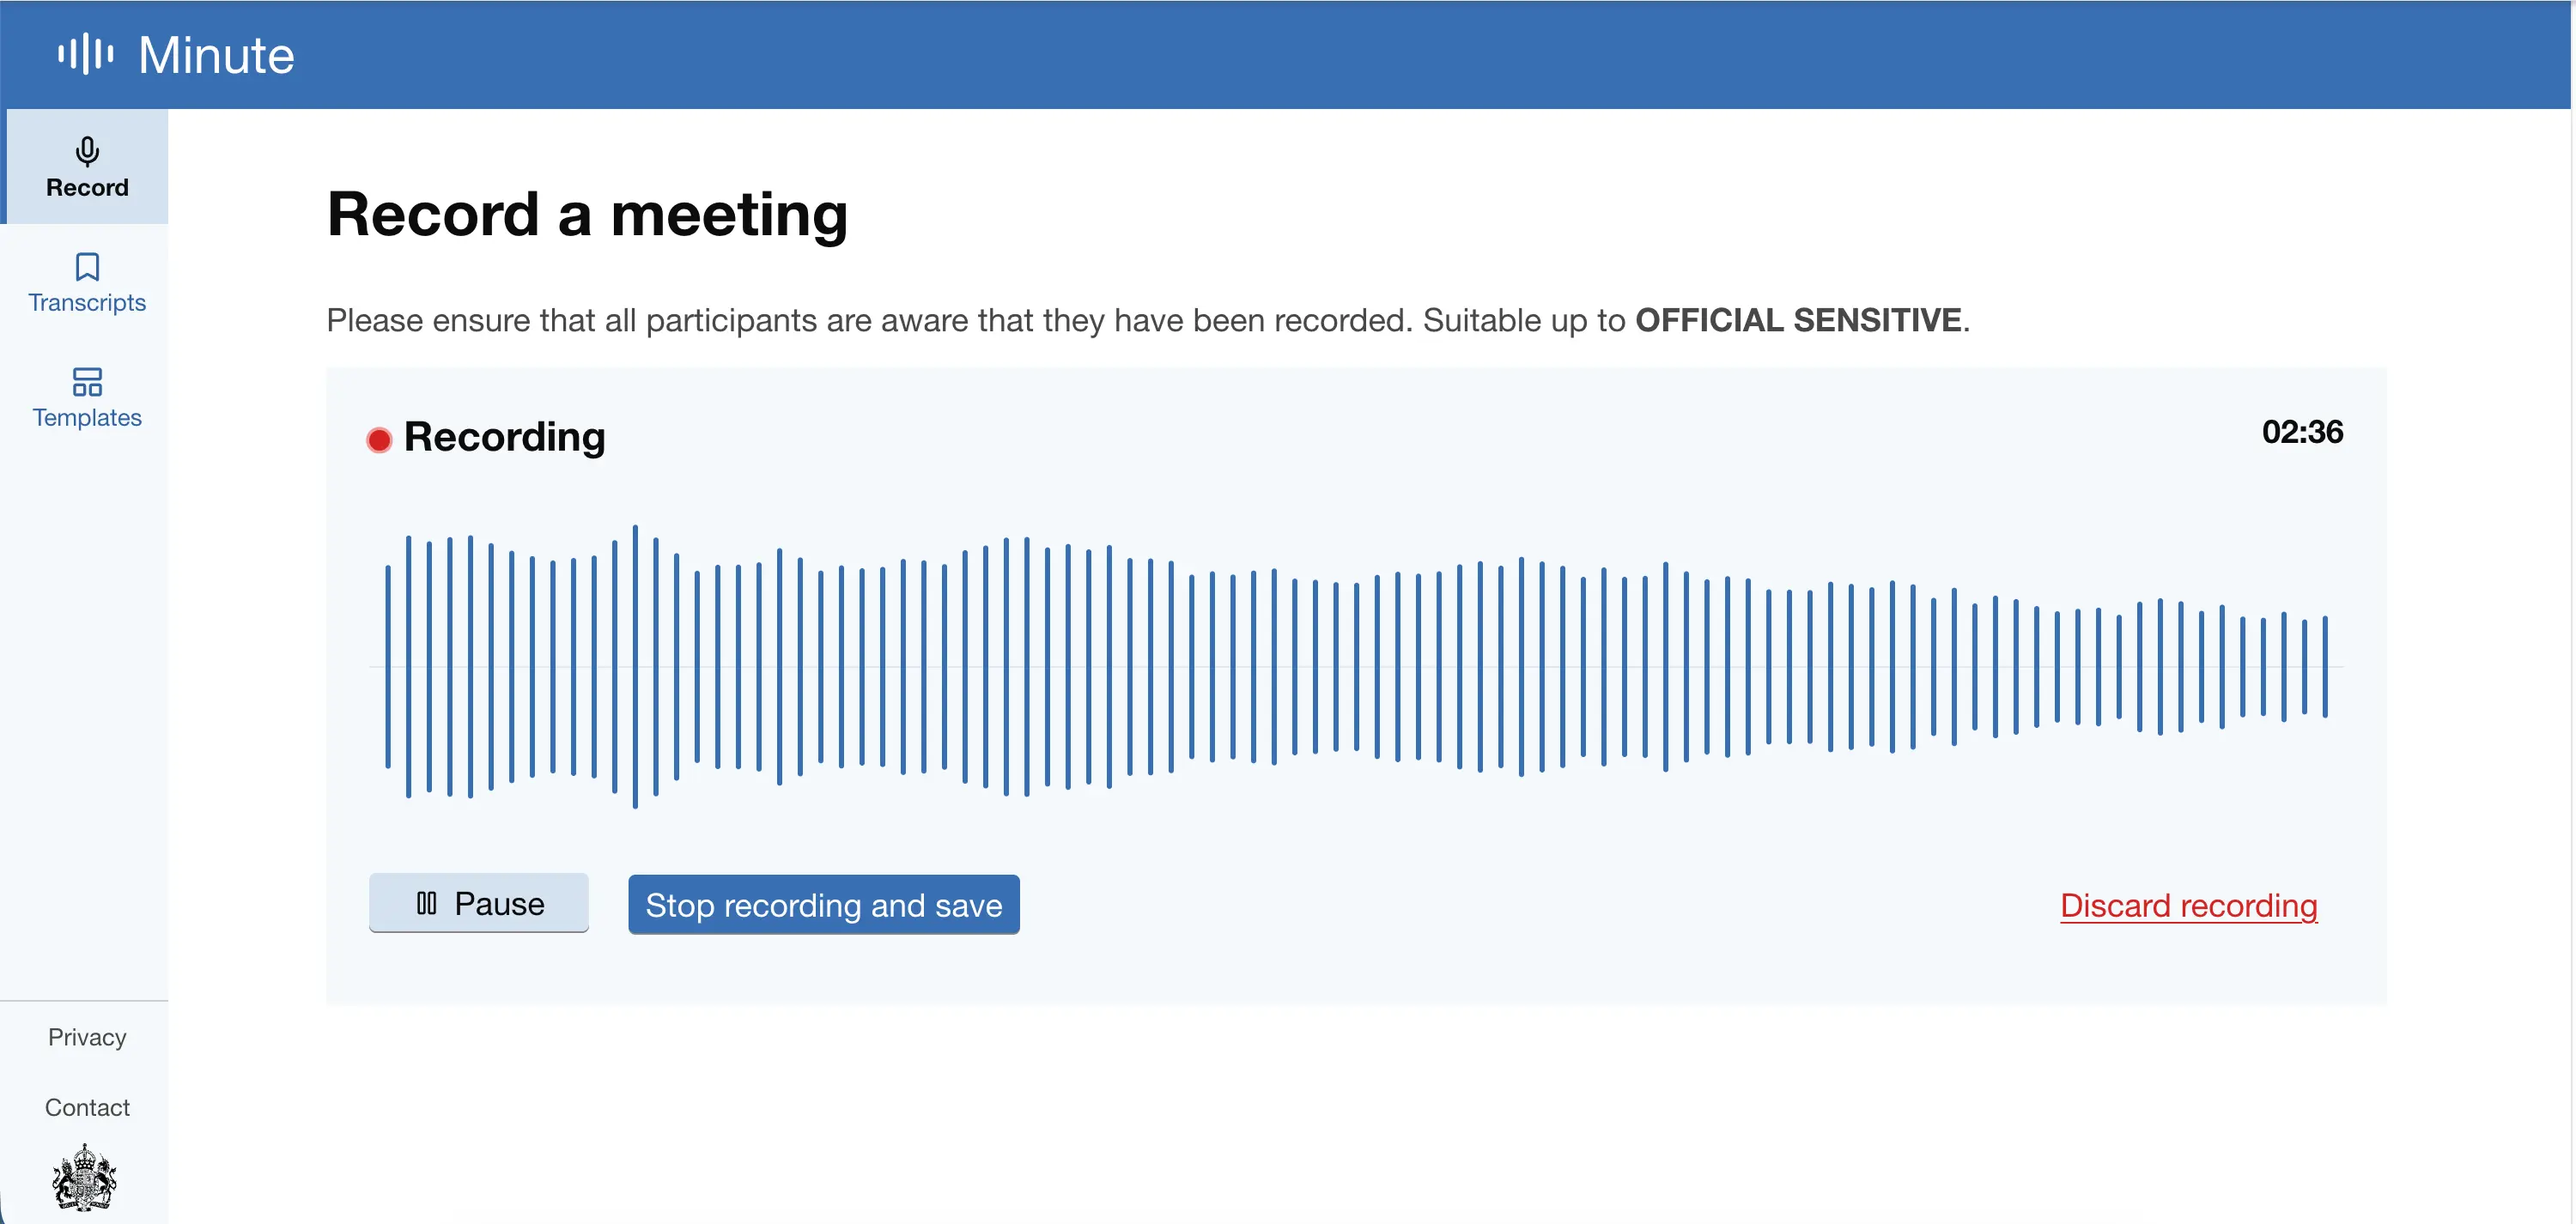
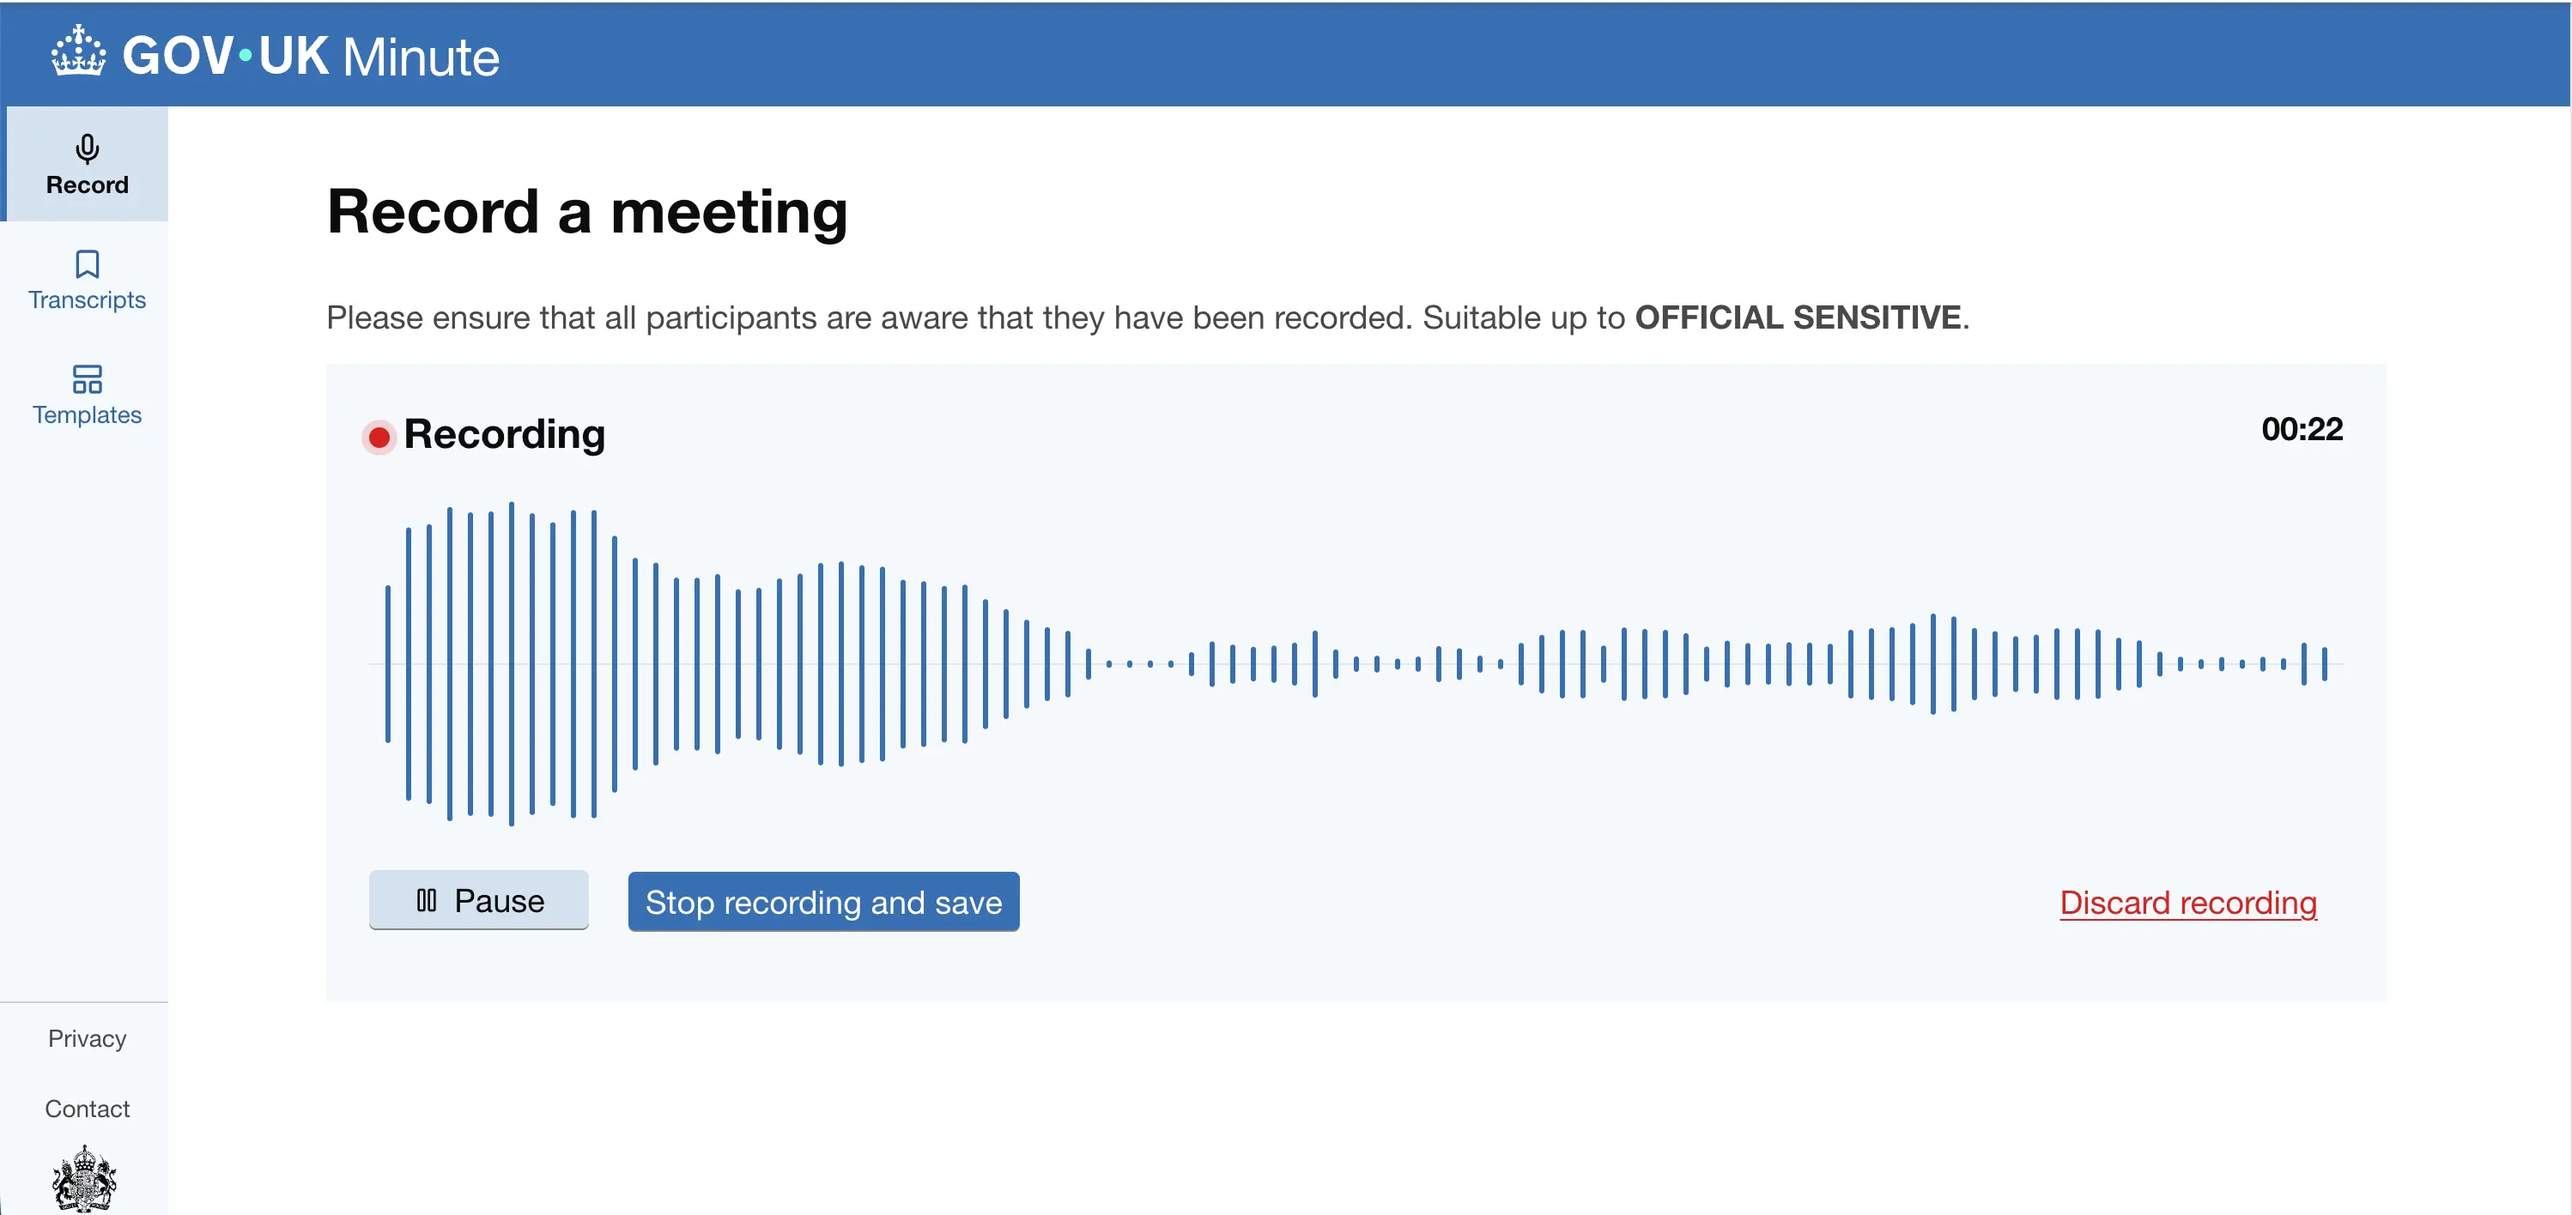
revert to govuk header

diff --git a/frontend/components/layout/header.tsx b/frontend/components/layout/header.tsx
@@ -3,28 +3,37 @@ import Link from 'next/link'
 export const Header = async () => {
   return (
     <header>
-      <div className="govuk-generic-header !bg-[#1d70b8]">
-        <div className="govuk-generic-header__container govuk-!-margin-left-6">
-          <div className="govuk-!-padding-bottom-2 govuk-!-padding-top-2">
-            <svg
-              width={40}
-              height={42.5}
-              viewBox="0 0 28 30"
-              fill="currentColor"
-              className="govuk-!-margin-right-2 inline-block text-white"
-              aria-hidden="true"
-            >
-              <rect x="2.8" y="11.5" width="2.1" height="7" rx="1.05" />
-              <rect x="7.875" y="8.875" width="2.1" height="12.25" rx="1.05" />
-              <rect x="12.95" y="6.25" width="2.1" height="17.5" rx="1.05" />
-              <rect x="18.025" y="8.875" width="2.1" height="12.25" rx="1.05" />
-              <rect x="23.1" y="11.5" width="2.1" height="7" rx="1.05" />
-            </svg>
-            <Link
-              href="/"
-              className="govuk-generic-header__homepage-link align-middle"
-            >
-              Minute
+      <div className="govuk-header">
+        <div className="govuk-header__container govuk-!-margin-left-6">
+          <div className="govuk-header__logo">
+            <Link href="/" className="govuk-header__homepage-link">
+              <svg
+                focusable="false"
+                role="img"
+                xmlns="http://www.w3.org/2000/svg"
+                viewBox="0 0 324 60"
+                height="30"
+                width="162"
+                fill="currentcolor"
+                className="govuk-header__logotype"
+                aria-label="GOV.UK"
+              >
+                <title>GOV.UK</title>
+                <g>
+                  <circle cx="20" cy="17.6" r="3.7" />
+                  <circle cx="10.2" cy="23.5" r="3.7" />
+                  <circle cx="3.7" cy="33.2" r="3.7" />
+                  <circle cx="31.7" cy="30.6" r="3.7" />
+                  <circle cx="43.3" cy="17.6" r="3.7" />
+                  <circle cx="53.2" cy="23.5" r="3.7" />
+                  <circle cx="59.7" cy="33.2" r="3.7" />
+                  <circle cx="31.7" cy="30.6" r="3.7" />
+                  <path d="M33.1,9.8c.2-.1.3-.3.5-.5l4.6,2.4v-6.8l-4.6,1.5c-.1-.2-.3-.3-.5-.5l1.9-5.9h-6.7l1.9,5.9c-.2.1-.3.3-.5.5l-4.6-1.5v6.8l4.6-2.4c.1.2.3.3.5.5l-2.6,8c-.9,2.8,1.2,5.7,4.1,5.7h0c3,0,5.1-2.9,4.1-5.7l-2.6-8ZM37,37.9s-3.4,3.8-4.1,6.1c2.2,0,4.2-.5,6.4-2.8l-.7,8.5c-2-2.8-4.4-4.1-5.7-3.8.1,3.1.5,6.7,5.8,7.2,3.7.3,6.7-1.5,7-3.8.4-2.6-2-4.3-3.7-1.6-1.4-4.5,2.4-6.1,4.9-3.2-1.9-4.5-1.8-7.7,2.4-10.9,3,4,2.6,7.3-1.2,11.1,2.4-1.3,6.2,0,4,4.6-1.2-2.8-3.7-2.2-4.2.2-.3,1.7.7,3.7,3,4.2,1.9.3,4.7-.9,7-5.9-1.3,0-2.4.7-3.9,1.7l2.4-8c.6,2.3,1.4,3.7,2.2,4.5.6-1.6.5-2.8,0-5.3l5,1.8c-2.6,3.6-5.2,8.7-7.3,17.5-7.4-1.1-15.7-1.7-24.5-1.7h0c-8.8,0-17.1.6-24.5,1.7-2.1-8.9-4.7-13.9-7.3-17.5l5-1.8c-.5,2.5-.6,3.7,0,5.3.8-.8,1.6-2.3,2.2-4.5l2.4,8c-1.5-1-2.6-1.7-3.9-1.7,2.3,5,5.2,6.2,7,5.9,2.3-.4,3.3-2.4,3-4.2-.5-2.4-3-3.1-4.2-.2-2.2-4.6,1.6-6,4-4.6-3.7-3.7-4.2-7.1-1.2-11.1,4.2,3.2,4.3,6.4,2.4,10.9,2.5-2.8,6.3-1.3,4.9,3.2-1.8-2.7-4.1-1-3.7,1.6.3,2.3,3.3,4.1,7,3.8,5.4-.5,5.7-4.2,5.8-7.2-1.3-.2-3.7,1-5.7,3.8l-.7-8.5c2.2,2.3,4.2,2.7,6.4,2.8-.7-2.3-4.1-6.1-4.1-6.1h10.6,0Z" />
+                </g>
+                <circle className="govuk-logo-dot" cx="226" cy="36" r="7.3" />
+                <path d="M93.94 41.25c.4 1.81 1.2 3.21 2.21 4.62 1 1.4 2.21 2.41 3.61 3.21s3.21 1.2 5.22 1.2 3.61-.4 4.82-1c1.4-.6 2.41-1.4 3.21-2.41.8-1 1.4-2.01 1.61-3.01s.4-2.01.4-3.01v.14h-10.86v-7.02h20.07v24.08h-8.03v-5.56c-.6.8-1.38 1.61-2.19 2.41-.8.8-1.81 1.2-2.81 1.81-1 .4-2.21.8-3.41 1.2s-2.41.4-3.81.4a18.56 18.56 0 0 1-14.65-6.63c-1.6-2.01-3.01-4.41-3.81-7.02s-1.4-5.62-1.4-8.83.4-6.02 1.4-8.83a20.45 20.45 0 0 1 19.46-13.65c3.21 0 4.01.2 5.82.8 1.81.4 3.61 1.2 5.02 2.01 1.61.8 2.81 2.01 4.01 3.21s2.21 2.61 2.81 4.21l-7.63 4.41c-.4-1-1-1.81-1.61-2.61-.6-.8-1.4-1.4-2.21-2.01-.8-.6-1.81-1-2.81-1.4-1-.4-2.21-.4-3.61-.4-2.01 0-3.81.4-5.22 1.2-1.4.8-2.61 1.81-3.61 3.21s-1.61 2.81-2.21 4.62c-.4 1.81-.6 3.71-.6 5.42s.8 5.22.8 5.22Zm57.8-27.9c3.21 0 6.22.6 8.63 1.81 2.41 1.2 4.82 2.81 6.62 4.82S170.2 24.39 171 27s1.4 5.62 1.4 8.83-.4 6.02-1.4 8.83-2.41 5.02-4.01 7.02-4.01 3.61-6.62 4.82-5.42 1.81-8.63 1.81-6.22-.6-8.63-1.81-4.82-2.81-6.42-4.82-3.21-4.41-4.01-7.02-1.4-5.62-1.4-8.83.4-6.02 1.4-8.83 2.41-5.02 4.01-7.02 4.01-3.61 6.42-4.82 5.42-1.81 8.63-1.81Zm0 36.73c1.81 0 3.61-.4 5.02-1s2.61-1.81 3.61-3.01 1.81-2.81 2.21-4.41c.4-1.81.8-3.61.8-5.62 0-2.21-.2-4.21-.8-6.02s-1.2-3.21-2.21-4.62c-1-1.2-2.21-2.21-3.61-3.01s-3.21-1-5.02-1-3.61.4-5.02 1c-1.4.8-2.61 1.81-3.61 3.01s-1.81 2.81-2.21 4.62c-.4 1.81-.8 3.61-.8 5.62 0 2.41.2 4.21.8 6.02.4 1.81 1.2 3.21 2.21 4.41s2.21 2.21 3.61 3.01c1.4.8 3.21 1 5.02 1Zm36.32 7.96-12.24-44.15h9.83l8.43 32.77h.4l8.23-32.77h9.83L200.3 58.04h-12.24Zm74.14-7.96c2.18 0 3.51-.6 3.51-.6 1.2-.6 2.01-1 2.81-1.81s1.4-1.81 1.81-2.81a13 13 0 0 0 .8-4.01V13.9h8.63v28.15c0 2.41-.4 4.62-1.4 6.62-.8 2.01-2.21 3.61-3.61 5.02s-3.41 2.41-5.62 3.21-4.62 1.2-7.02 1.2-5.02-.4-7.02-1.2c-2.21-.8-4.01-1.81-5.62-3.21s-2.81-3.01-3.61-5.02-1.4-4.21-1.4-6.62V13.9h8.63v26.95c0 1.61.2 3.01.8 4.01.4 1.2 1.2 2.21 2.01 2.81.8.8 1.81 1.4 2.81 1.81 0 0 1.34.6 3.51.6Zm34.22-36.18v18.92l15.65-18.92h10.82l-15.03 17.32 16.03 26.83h-10.21l-11.44-20.21-5.62 6.22v13.99h-8.83V13.9" />
+              </svg>
+              <span className="govuk-header__product-name">Minute</span>
             </Link>
           </div>
         </div>

diff --git a/frontend/public-site/partials/header.html b/frontend/public-site/partials/header.html
@@ -3,32 +3,47 @@
 >
 
 <header>
-  <div class="govuk-generic-header" style="background-color: #1d70b8">
+  <div class="govuk-header">
     <div
-      class="govuk-generic-header__container govuk-width-container"
+      class="govuk-header__container govuk-width-container"
       style="
         border-bottom: 1px solid var(--govuk-surface-border-colour, #8eb8dc);
       "
     >
-      <div
-        class="govuk-!-padding-bottom-2 govuk-!-padding-top-2"
-        style="display: flex; align-items: center"
-      >
-        <svg
-          width="40"
-          height="42.5"
-          viewBox="0 0 28 30"
-          fill="currentColor"
-          class="govuk-!-margin-right-2"
-          aria-hidden="true"
-        >
-          <rect x="2.8" y="11.5" width="2.1" height="7" rx="1.05" />
-          <rect x="7.875" y="8.875" width="2.1" height="12.25" rx="1.05" />
-          <rect x="12.95" y="6.25" width="2.1" height="17.5" rx="1.05" />
-          <rect x="18.025" y="8.875" width="2.1" height="12.25" rx="1.05" />
-          <rect x="23.1" y="11.5" width="2.1" height="7" rx="1.05" />
-        </svg>
-        <a href="/" class="govuk-generic-header__homepage-link">Minute</a>
+      <div class="govuk-header__logo">
+        <a href="/" class="govuk-header__homepage-link">
+          <svg
+            focusable="false"
+            role="img"
+            xmlns="http://www.w3.org/2000/svg"
+            viewBox="0 0 324 60"
+            height="30"
+            width="162"
+            fill="currentcolor"
+            class="govuk-header__logotype"
+            aria-label="GOV.UK"
+          >
+            <title>GOV.UK</title>
+            <g>
+              <circle cx="20" cy="17.6" r="3.7" />
+              <circle cx="10.2" cy="23.5" r="3.7" />
+              <circle cx="3.7" cy="33.2" r="3.7" />
+              <circle cx="31.7" cy="30.6" r="3.7" />
+              <circle cx="43.3" cy="17.6" r="3.7" />
+              <circle cx="53.2" cy="23.5" r="3.7" />
+              <circle cx="59.7" cy="33.2" r="3.7" />
+              <circle cx="31.7" cy="30.6" r="3.7" />
+              <path
+                d="M33.1,9.8c.2-.1.3-.3.5-.5l4.6,2.4v-6.8l-4.6,1.5c-.1-.2-.3-.3-.5-.5l1.9-5.9h-6.7l1.9,5.9c-.2.1-.3.3-.5.5l-4.6-1.5v6.8l4.6-2.4c.1.2.3.3.5.5l-2.6,8c-.9,2.8,1.2,5.7,4.1,5.7h0c3,0,5.1-2.9,4.1-5.7l-2.6-8ZM37,37.9s-3.4,3.8-4.1,6.1c2.2,0,4.2-.5,6.4-2.8l-.7,8.5c-2-2.8-4.4-4.1-5.7-3.8.1,3.1.5,6.7,5.8,7.2,3.7.3,6.7-1.5,7-3.8.4-2.6-2-4.3-3.7-1.6-1.4-4.5,2.4-6.1,4.9-3.2-1.9-4.5-1.8-7.7,2.4-10.9,3,4,2.6,7.3-1.2,11.1,2.4-1.3,6.2,0,4,4.6-1.2-2.8-3.7-2.2-4.2.2-.3,1.7.7,3.7,3,4.2,1.9.3,4.7-.9,7-5.9-1.3,0-2.4.7-3.9,1.7l2.4-8c.6,2.3,1.4,3.7,2.2,4.5.6-1.6.5-2.8,0-5.3l5,1.8c-2.6,3.6-5.2,8.7-7.3,17.5-7.4-1.1-15.7-1.7-24.5-1.7h0c-8.8,0-17.1.6-24.5,1.7-2.1-8.9-4.7-13.9-7.3-17.5l5-1.8c-.5,2.5-.6,3.7,0,5.3.8-.8,1.6-2.3,2.2-4.5l2.4,8c-1.5-1-2.6-1.7-3.9-1.7,2.3,5,5.2,6.2,7,5.9,2.3-.4,3.3-2.4,3-4.2-.5-2.4-3-3.1-4.2-.2-2.2-4.6,1.6-6,4-4.6-3.7-3.7-4.2-7.1-1.2-11.1,4.2,3.2,4.3,6.4,2.4,10.9,2.5-2.8,6.3-1.3,4.9,3.2-1.8-2.7-4.1-1-3.7,1.6.3,2.3,3.3,4.1,7,3.8,5.4-.5,5.7-4.2,5.8-7.2-1.3-.2-3.7,1-5.7,3.8l-.7-8.5c2.2,2.3,4.2,2.7,6.4,2.8-.7-2.3-4.1-6.1-4.1-6.1h10.6,0Z"
+              />
+            </g>
+            <circle class="govuk-logo-dot" cx="226" cy="36" r="7.3" />
+            <path
+              d="M93.94 41.25c.4 1.81 1.2 3.21 2.21 4.62 1 1.4 2.21 2.41 3.61 3.21s3.21 1.2 5.22 1.2 3.61-.4 4.82-1c1.4-.6 2.41-1.4 3.21-2.41.8-1 1.4-2.01 1.61-3.01s.4-2.01.4-3.01v.14h-10.86v-7.02h20.07v24.08h-8.03v-5.56c-.6.8-1.38 1.61-2.19 2.41-.8.8-1.81 1.2-2.81 1.81-1 .4-2.21.8-3.41 1.2s-2.41.4-3.81.4a18.56 18.56 0 0 1-14.65-6.63c-1.6-2.01-3.01-4.41-3.81-7.02s-1.4-5.62-1.4-8.83.4-6.02 1.4-8.83a20.45 20.45 0 0 1 19.46-13.65c3.21 0 4.01.2 5.82.8 1.81.4 3.61 1.2 5.02 2.01 1.61.8 2.81 2.01 4.01 3.21s2.21 2.61 2.81 4.21l-7.63 4.41c-.4-1-1-1.81-1.61-2.61-.6-.8-1.4-1.4-2.21-2.01-.8-.6-1.81-1-2.81-1.4-1-.4-2.21-.4-3.61-.4-2.01 0-3.81.4-5.22 1.2-1.4.8-2.61 1.81-3.61 3.21s-1.61 2.81-2.21 4.62c-.4 1.81-.6 3.71-.6 5.42s.8 5.22.8 5.22Zm57.8-27.9c3.21 0 6.22.6 8.63 1.81 2.41 1.2 4.82 2.81 6.62 4.82S170.2 24.39 171 27s1.4 5.62 1.4 8.83-.4 6.02-1.4 8.83-2.41 5.02-4.01 7.02-4.01 3.61-6.62 4.82-5.42 1.81-8.63 1.81-6.22-.6-8.63-1.81-4.82-2.81-6.42-4.82-3.21-4.41-4.01-7.02-1.4-5.62-1.4-8.83.4-6.02 1.4-8.83 2.41-5.02 4.01-7.02 4.01-3.61 6.42-4.82 5.42-1.81 8.63-1.81Zm0 36.73c1.81 0 3.61-.4 5.02-1s2.61-1.81 3.61-3.01 1.81-2.81 2.21-4.41c.4-1.81.8-3.61.8-5.62 0-2.21-.2-4.21-.8-6.02s-1.2-3.21-2.21-4.62c-1-1.2-2.21-2.21-3.61-3.01s-3.21-1-5.02-1-3.61.4-5.02 1c-1.4.8-2.61 1.81-3.61 3.01s-1.81 2.81-2.21 4.62c-.4 1.81-.8 3.61-.8 5.62 0 2.41.2 4.21.8 6.02.4 1.81 1.2 3.21 2.21 4.41s2.21 2.21 3.61 3.01c1.4.8 3.21 1 5.02 1Zm36.32 7.96-12.24-44.15h9.83l8.43 32.77h.4l8.23-32.77h9.83L200.3 58.04h-12.24Zm74.14-7.96c2.18 0 3.51-.6 3.51-.6 1.2-.6 2.01-1 2.81-1.81s1.4-1.81 1.81-2.81a13 13 0 0 0 .8-4.01V13.9h8.63v28.15c0 2.41-.4 4.62-1.4 6.62-.8 2.01-2.21 3.61-3.61 5.02s-3.41 2.41-5.62 3.21-4.62 1.2-7.02 1.2-5.02-.4-7.02-1.2c-2.21-.8-4.01-1.81-5.62-3.21s-2.81-3.01-3.61-5.02-1.4-4.21-1.4-6.62V13.9h8.63v26.95c0 1.61.2 3.01.8 4.01.4 1.2 1.2 2.21 2.01 2.81.8.8 1.81 1.4 2.81 1.81 0 0 1.34.6 3.51.6Zm34.22-36.18v18.92l15.65-18.92h10.82l-15.03 17.32 16.03 26.83h-10.21l-11.44-20.21-5.62 6.22v13.99h-8.83V13.9"
+            />
+          </svg>
+          <span class="govuk-header__product-name"> Minute </span>
+        </a>
       </div>
     </div>
   </div>

diff --git a/frontend/public-site/partials/head.html b/frontend/public-site/partials/head.html
@@ -1,5 +1,5 @@
 <meta charset="utf-8" />
-<title>{{TITLE}} - Minute</title>
+<title>Minute</title>
 <meta
   name="viewport"
   content="width=device-width, initial-scale=1, viewport-fit=cover"
@@ -10,11 +10,11 @@
 <link
   rel="icon"
   sizes="any"
-  href="/assets/logos/minute-logo.svg"
-  type="image/svg+xml"
+  href="/assets/images/favicon.ico"
+  type="image/x-icon"
 />
-<link rel="mask-icon" href="/assets/images/favicon.svg" color="#1d70b8" />
-<link rel="apple-touch-icon" href="/assets/logos/minute-logo.svg" />
+<link rel="mask-icon" href="/assets/images/favicon.ico" color="#1d70b8" />
+<link rel="apple-touch-icon" href="/assets/images/favicon.ico" />
 <link
   rel="manifest"
   href="/assets/manifest.json"

diff --git a/frontend/components/layout/service-navigation.tsx b/frontend/components/layout/service-navigation.tsx
@@ -116,7 +116,7 @@ export const ServiceNavigation = () => {
               <img
                 src="/images/govuk-crest.svg"
                 alt=""
-                className="mx-auto mb-4 size-10"
+                className="mx-auto mb-4 hidden size-10 sm:block"
               />
             </div>
           </nav>

diff --git a/frontend/app/layout.tsx b/frontend/app/layout.tsx
@@ -21,7 +21,7 @@ export const metadata: Metadata = {
   title: 'Minute',
   description: 'Minutes and transcriptions',
   icons: {
-    icon: '/logos/minute-logo.svg',
+    icon: '/images/favicon.ico',
   },
 }
 
